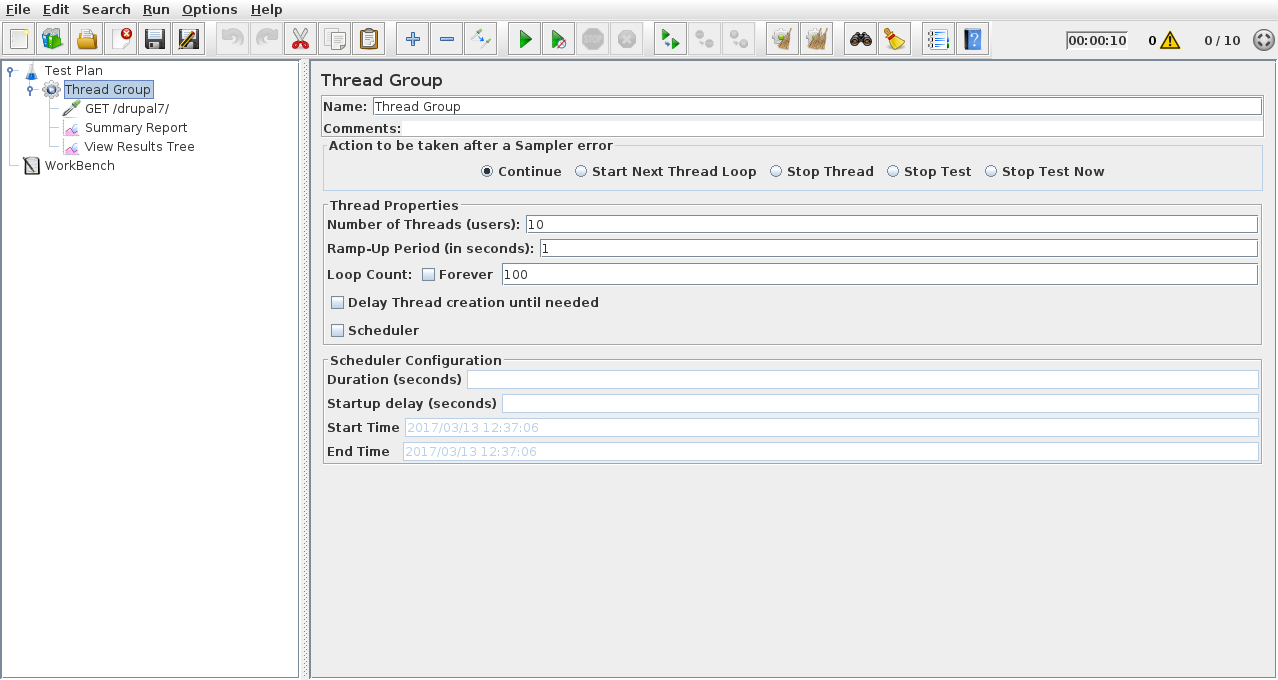
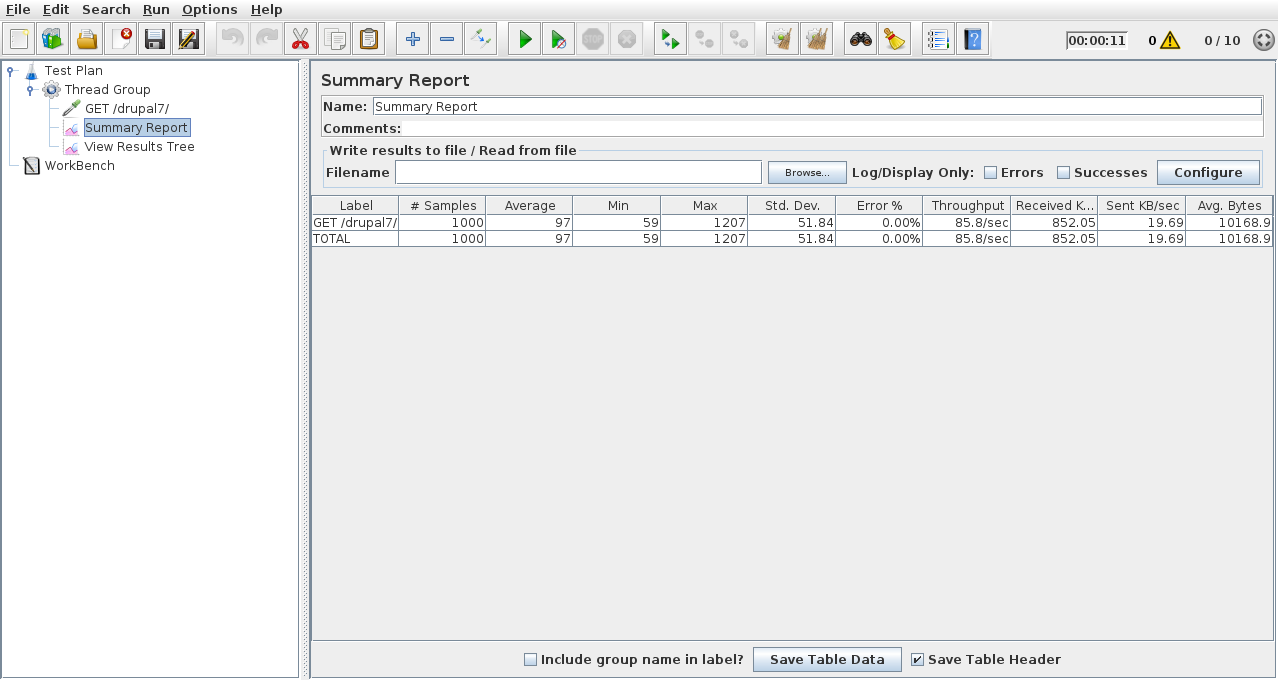
Step 6 done, lab done

diff --git a/README.md b/README.md
@@ -521,6 +521,39 @@ générés par `apache2` pour chaque instance.
 
 ![no alt](assets/images/06-tail_1.png)
 
+Nous lançons une première fois la simulation avec 1 utilisateur qui effectue 10
+requêtes.
+
+![One user, ten requests](assets/images/06-monitoring_tail_1_10.png)
+
+Nous remarquons qu'il y a alternance entre les différents noeuds. Nous pensons
+que le répartisseur de charge utilise algorithme "round robin".
+
+Nous retentons l'expérience avec cette fois 10 utilisateurs qui effectuent 100
+requêtes.
+
+À priori, en regardant le rapport de simulation de `jmeter`, tout semble se
+dérouler correctement.
+
+![10 users, 100 requests](assets/images/06-monitoring_10_100-jmeter.png)
+
+En regardant le tableau de bord d'Amazon, on remarque qu'une bonne partie des
+requêtes a été redirigé sur la deuxième instance. La théorie du "round robin"
+semble être anéantie.
+
+![10 users, 100 requests](assets/images/06-monitoring_10_100.png)
+
+Retentons la simulation mais avec cette fois 100 utilisateurs effectuant 100
+requêtes.
+
+Nous commençons à voir des comportements inatendus. On voit apparaître d'une
+des mots clef "Internal Dummy Connection", après lecture du [wiki](https://wiki.apache.org/httpd/InternalDummyConnection)
+on peut les ignorer.
+
+![100 users, 100 requests](assets/images/06-monitoring_100_100.png)
+
+Nous voyons aussi apparaître des erreures 500 (Internal Server Error).
+Apparement le serveur à du mal à traiter un nombre important de requête.
 
 ```
 ubuntu@ip-172-31-8-194:~$ sudo grep -m5 -nr 500 /var/log/apache2/access.log
@@ -530,6 +563,17 @@ ubuntu@ip-172-31-8-194:~$ sudo grep -m5 -nr 500 /var/log/apache2/access.log
 4706:172.31.9.229 - - [13/Mar/2017:12:18:39 +0000] "GET /drupal7/ HTTP/1.1" 500 4678 "-" "Apache-HttpClient/4.5.2 (Java/1.8.0_121)"
 4708:172.31.9.229 - - [13/Mar/2017:12:18:39 +0000] "GET /drupal7/ HTTP/1.1" 500 4678 "-" "Apache-HttpClient/4.5.2 (Java/1.8.0_121)"
 ```
+
+Pour souligner ce phénomène on peut regarder le rapport de simulation de
+`jmeter`. Il nous indique un taux d'environ 1% d'erreur.
+
+![100 users, 100 requests](assets/images/06-monitoring_100_100-jmeter.png)
+
+![100 users, 100 requests](assets/images/06-monitoring_100_100_aws.png)
+
+Il nous ait demandé d'effectuer un `nslookup` après une forte simulation.
+Cependant, nous constatons que le retour de la commande n'est pas très différents
+de la première fois.
 
 ```
 $ nslookup franchini-drupal-1520229052.eu-central-1.elb.amazonaws.com
@@ -543,7 +587,22 @@ Name:	franchini-drupal-1520229052.eu-central-1.elb.amazonaws.com
 Address: 35.157.117.90
 ```
 
+Nous pensons que les erreurs du serveur `apache2`, est dû au type de l'instance
+choisis `t2.medium`. Ce type d'instance n'est pas fait pour résister à une
+forte charge.
+
+Nous pensons que la simulation est trop simpliste pour évaluer le comportement
+du load balancer. Nous ne prennons pas en compte, par exemple, les cookies.
+Ici, nous testons plutôt la charge que peut supporter une instance, plutôt que
+le comportement effectif du répartisseur de charge.
+
+Pour une simulation plus réaliste, nous définirions d'une part un cahier des
+charges pour tester les différents aspects comportementales.
+
 ## TÂCHE 7: LIBÉRATION DES RESSOURCES
+
+Comme nous avons terminer le laboratoire, nous libérons les ressources utilisées
+pour éviter d'être facturé bêtement. **(Procédure non-détaillée)**
 
 ## CONCLUSION
 
